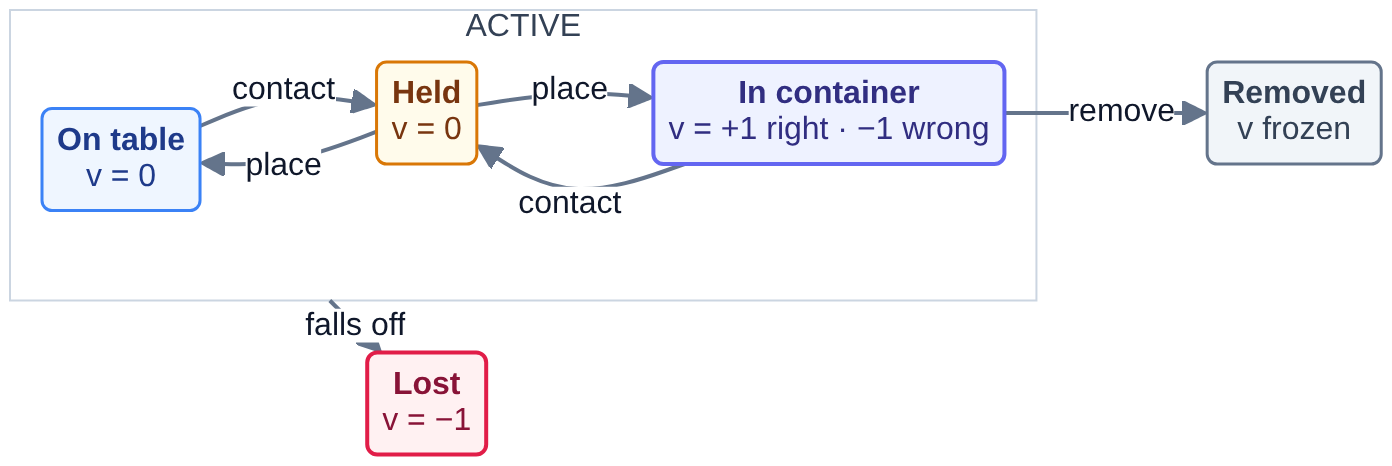
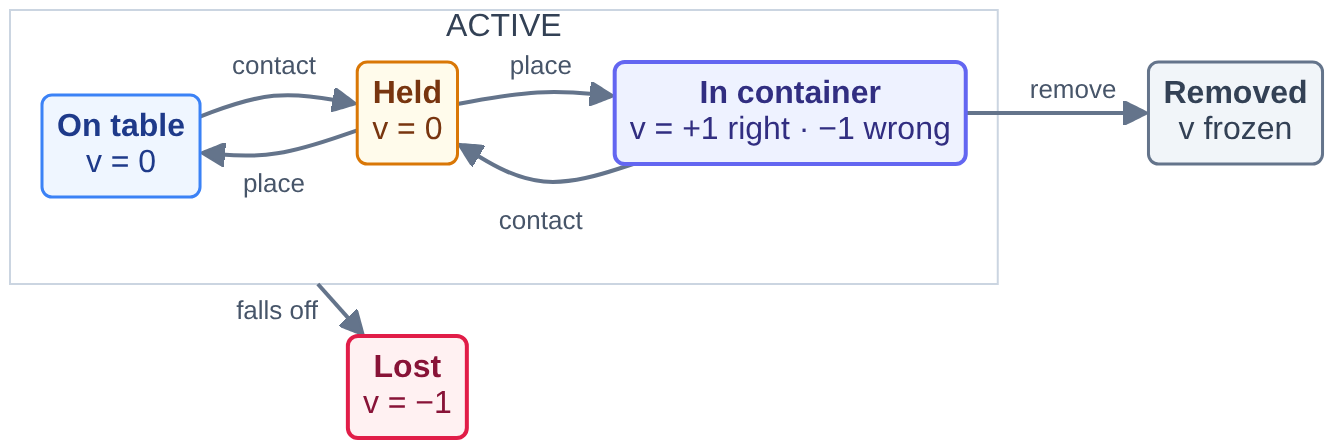
docs: move automaton labels clear of arrow paths

Changed region(s): [[0.0307, 0.125, 1.0, 0.5312], [0.0, 0.625, 0.7684, 1.0], [0.3381, 0.0312, 0.4303, 0.0938]]

diff --git a/PROGRESS.md b/PROGRESS.md
@@ -275,6 +275,8 @@ and `verify/` included.
 - Follow-up: publish tightly cropped, opaque white PNGs with editable Mermaid sources
   to keep the backgrounds stable in dark mode. Keep the object layout; compact the
   request diagram vertically with Idle above the new-request transition and no Closed node.
+- Moved transition labels beside the arrows, removed opaque label backgrounds, and
+  reduced label emphasis so the arrow paths remain continuous and unobstructed.
 - Validation remains pending: stabilize oracle grasping, measure its anchor, run
   `ale validate`, and measure frontier-model difficulty before marking the PR ready.
 
